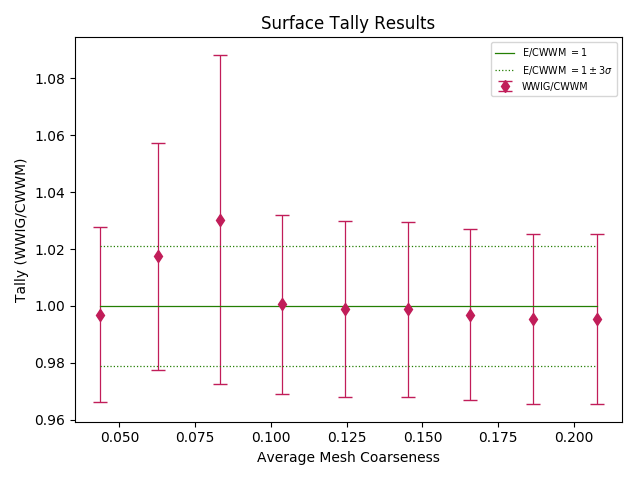
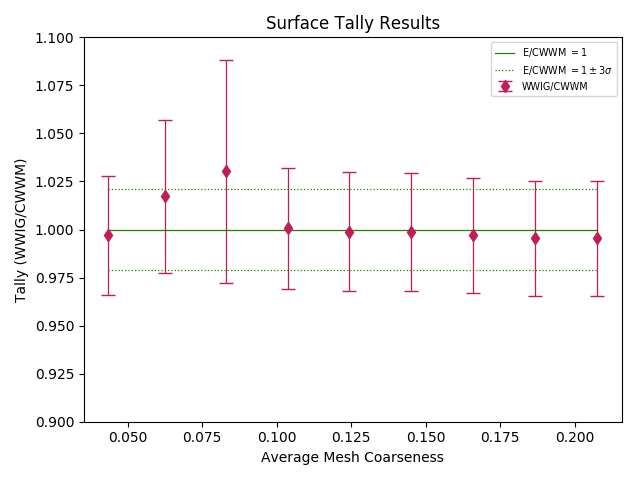
updated plots with better axes

diff --git a/performance-analysis/analysis/plot_tally_data.py b/performance-analysis/analysis/plot_tally_data.py
@@ -118,6 +118,8 @@ def plot_tally_cwwm(df_output, refinement, df_measure=None, pltratio=True,
     plt.title(title)
     plt.xlabel(xlabel)
     plt.ylabel(ylabel)
+    if pltratio:
+        plt.ylim((0.9, 1.1))
     plt.legend(loc='best', ncol=1,
                fontsize='x-small')
     plt.tight_layout()
@@ -262,6 +264,9 @@ def plot_tally(df_output, refinement, df_measure=None, pltratio=True,
         xmin = min(tally_vals[measurement])
         plt.xticks(np.arange(xmin, xmax+2, step=2))
 
+    if pltratio:
+        plt.ylim((0.9, 1.1))
+
     # labels
     ylabel = 'Tally (Experimental/Reference)'
     title = 'Surface Tally Results'
@@ -355,6 +360,11 @@ def plot_ww_efficiency(df_output, refinement, df_measure=None):
         fig.legend(bbox_to_anchor=(0.5, 0), loc='lower center', ncol=2,
                    fontsize='x-small')
 
+    if df_measure is not None:
+        ax[0].set_ylim(0.97, 0.99)
+        ax[1].set_ylim(0.0, 0.02)
+        ax[2].set_ylim(0.0, 0.02)
+
     # labels
     title = 'Splitting Efficiency'
     fig.suptitle(title, fontsize='x-large')
@@ -428,6 +438,12 @@ def plot_ww_efficiency(df_output, refinement, df_measure=None):
              label='Stochatistic Termination', color=colors['analog'])
     ax2.set_ylabel(r'$f_{term}$')
 
+    if df_measure is not None:
+        ax[0].set_ylim((0.157, 0.17))  ## overall
+        ax[1].set_ylim((1.39, 1.52))  ## total num
+        ax[2].set_ylim((0.0445, 0.0445))  ## f splits
+        ax2.set_ylim((0.117, 0.124))  # f terms
+
     title = 'Weight Window Efficiency'
     fig.suptitle(title, fontsize='x-large')
     fig.legend(bbox_to_anchor=(0.5, 0), loc='lower center', ncol=5,
@@ -436,40 +452,40 @@ def plot_ww_efficiency(df_output, refinement, df_measure=None):
     save_name = 'images/ww_efficiency_{}.png'.format(refinement)
     plt.savefig(save_name)
 
-    fig, ax = plt.subplots()
-    ax2 = ax.twinx()
-    if df_measure is None:
-        # also plot cwwm results
-        xmax = max(df_wwig[output_key])
-        xmin = min(df_wwig[output_key])
-        df_cwwm = df_output.loc[df_output['mode'] == 'cwwm']
-        cwwm_create = np.full(2, float(df_cwwm['ww creation']) / 10**5)
-        cwwm_loss = np.full(2, float(df_cwwm['ww loss']) / 10**5)
-        ax.plot([xmin, xmax], cwwm_create, marker='',
-                ls=':', color=colors['cwwm'], label='CWWM')
-        ax2.plot([xmin, xmax], cwwm_loss, marker='',
-                 ls='', color=colors['cwwm'], label='')
-
-    ax.plot(df_wwig[measurement], df_wwig['ww creation'] / 10**5,
-            marker=markers['wwig'], ls='',
-            label='Creation', color=colors['wwig'])
-    ax.set_ylabel(r'Neutron Creation ($\times 10^5$)')
-    ax.set_xlabel(xlabel)
-    ax2.plot(df_wwig[measurement],
-             df_wwig['ww loss'] / 10**5,
-             marker=markers['analog'], ls='',
-             label='Loss', color=colors['analog'])
-    ax2.set_ylabel(r'Neutron Loss ($\times 10^5$)')
-    if df_measure is None:
-        xmax = max(df_wwig[output_key])
-        xmin = min(df_wwig[output_key])
-        plt.xticks(np.arange(xmin, xmax+2, step=2))
-
-    fig.suptitle('Neutron Creation/Loss by Weight Window')
-    fig.legend(bbox_to_anchor=(0.5, 0), loc='lower center', ncol=3,
-               fontsize='x-small')
-    fig.tight_layout(pad=2.5)
-    save_name = 'images/ww_creationloss_{}.png'.format(refinement)
+    # fig, ax = plt.subplots()
+    # ax2 = ax.twinx()
+    # if df_measure is None:
+    #     # also plot cwwm results
+    #     xmax = max(df_wwig[output_key])
+    #     xmin = min(df_wwig[output_key])
+    #     df_cwwm = df_output.loc[df_output['mode'] == 'cwwm']
+    #     cwwm_create = np.full(2, float(df_cwwm['ww creation']) / 10**5)
+    #     cwwm_loss = np.full(2, float(df_cwwm['ww loss']) / 10**5)
+    #     ax.plot([xmin, xmax], cwwm_create, marker='',
+    #             ls=':', color=colors['cwwm'], label='CWWM')
+    #     ax2.plot([xmin, xmax], cwwm_loss, marker='',
+    #              ls='', color=colors['cwwm'], label='')
+#
+    # ax.plot(df_wwig[measurement], df_wwig['ww creation'] / 10**5,
+    #         marker=markers['wwig'], ls='',
+    #         label='Creation', color=colors['wwig'])
+    # ax.set_ylabel(r'Neutron Creation ($\times 10^5$)')
+    # ax.set_xlabel(xlabel)
+    # ax2.plot(df_wwig[measurement],
+    #          df_wwig['ww loss'] / 10**5,
+    #          marker=markers['analog'], ls='',
+    #          label='Loss', color=colors['analog'])
+    # ax2.set_ylabel(r'Neutron Loss ($\times 10^5$)')
+    # if df_measure is None:
+    #     xmax = max(df_wwig[output_key])
+    #     xmin = min(df_wwig[output_key])
+    #     plt.xticks(np.arange(xmin, xmax+2, step=2))
+#
+    # fig.suptitle('Neutron Creation/Loss by Weight Window')
+    # fig.legend(bbox_to_anchor=(0.5, 0), loc='lower center', ncol=3,
+    #            fontsize='x-small')
+    # fig.tight_layout(pad=2.5)
+    # save_name = 'images/ww_creationloss_{}.png'.format(refinement)
     #plt.savefig(save_name)
 
 
@@ -630,6 +646,7 @@ def plot_relative_error(df_output, refinement, df_measure=None):
     plt.title(title)
     plt.xlabel(xlabel)
     plt.ylabel(ylabel)
+    plt.ylim((0.001, 0.03))
     plt.legend(loc='best', ncol=2,
                fontsize='x-small')
     plt.tight_layout()
